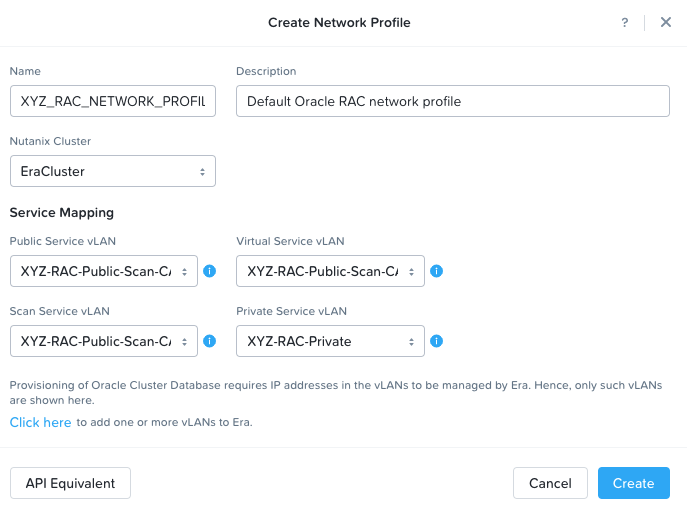
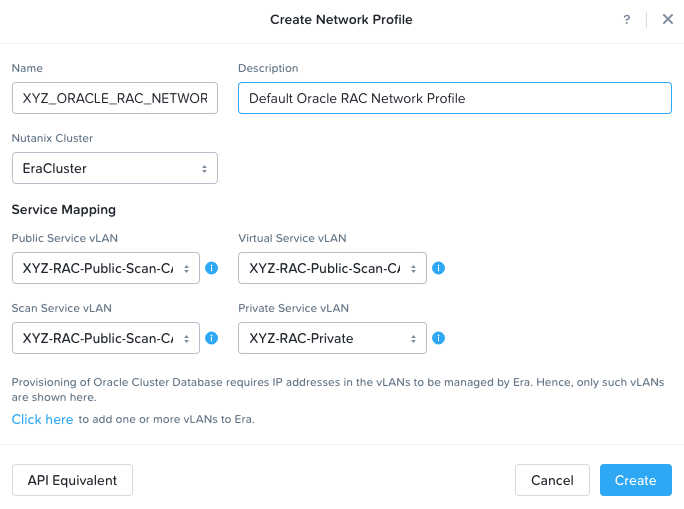
rac image updates

diff --git a/deploy_oracle_rac_era/deploy_oracle_rac_era.rst b/deploy_oracle_rac_era/deploy_oracle_rac_era.rst
@@ -187,8 +187,8 @@ Now let's create the XYZ-RAC-Public-Scan-CA network in Era
 
 #. Fill out the following fields to configure network profile to use for Oracle RAC provisioning
 
-   - **Name** - Oracle
-   - **Description** - Default Oracle RAC Network Profile
+     - **Name** - XYZ_ORACLE_RAC_NETWORK_PROFILE
+     - **Description** - Default Oracle RAC Network Profile
    - **Nutanix Cluster** - EraCluster
    - **Public Service vLAN** - XYZ-RAC-Private
    - **Virtual Service vLAN** - XYZ-RAC-Public-SCAN-CA
